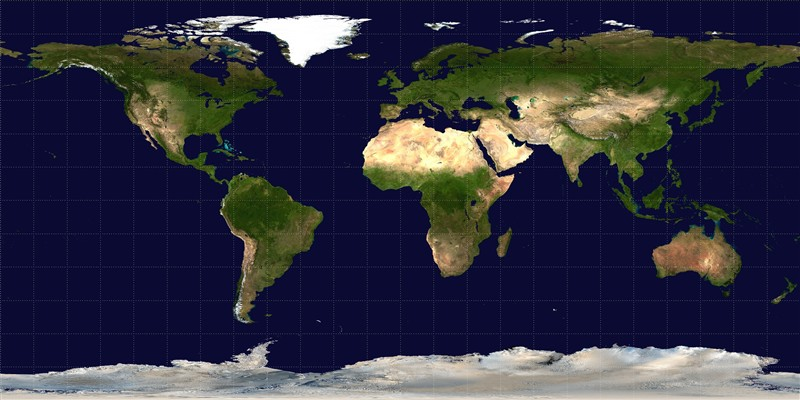
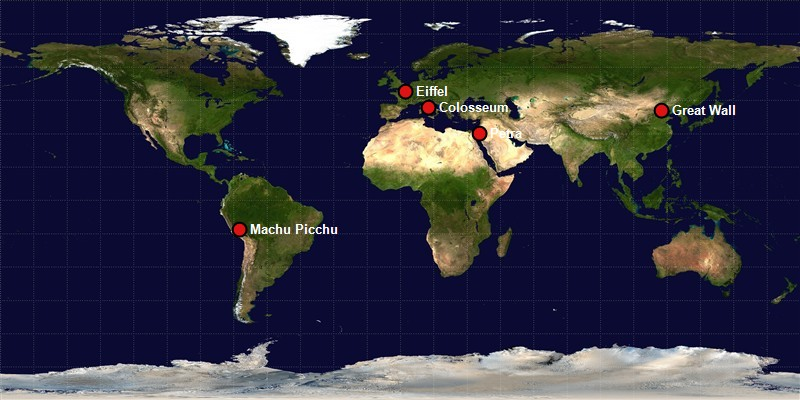
Final

Changed region(s): [[0.5, 0.21, 0.6562, 0.36], [0.2812, 0.54, 0.4375, 0.6], [0.8125, 0.24, 0.9375, 0.3]]

diff --git a/index.html b/index.html
@@ -33,11 +33,11 @@
                      alt="מפת עולם"
                      usemap="#places-map">
                 <map name="places-map">
-                    <area shape="circle" coords="391,191,18" href="eiffel.html" alt="מגדל אייפל" title="מגדל אייפל">
-                    <area shape="circle" coords="260,365,18" href="machu-picchu.html" alt="מאצ'ו פיצ'ו" title="מאצ'ו פיצ'ו">
-                    <area shape="circle" coords="460,256,18" href="petra.html" alt="פטרה" title="פטרה">
-                    <area shape="circle" coords="405,218,18" href="colosseum.html" alt="הקולוסיאום" title="הקולוסיאום">
-                    <area shape="circle" coords="606,214,18" href="great-wall.html" alt="החומה הסינית" title="החומה הסינית">
+                    <area shape="circle" coords="405,91,18" href="eiffel.html" alt="מגדל אייפל" title="מגדל אייפל">
+                    <area shape="circle" coords="239,229,18" href="machu-picchu.html" alt="מאצ'ו פיצ'ו" title="מאצ'ו פיצ'ו">
+                    <area shape="circle" coords="479,133,18" href="petra.html" alt="פטרה" title="פטרה">
+                    <area shape="circle" coords="428,107,18" href="colosseum.html" alt="הקולוסיאום" title="הקולוסיאום">
+                    <area shape="circle" coords="661,110,18" href="great-wall.html" alt="החומה הסינית" title="החומה הסינית">
                 </map>
             </td>
         </tr>

diff --git a/README.md b/README.md
@@ -2,6 +2,4 @@
 
 כתובת השרת שבו מופיע שיעורי הבית:
 
-https://USERNAME.github.io/AfekaFAMILY_NAME/
-
-יש להחליף את USERNAME בשם המשתמש ב-GitHub ואת FAMILY_NAME בשם המשפחה לפי שם המאגר שנפתח.
+https://kobihanoch.github.io/AfekaHanoch/